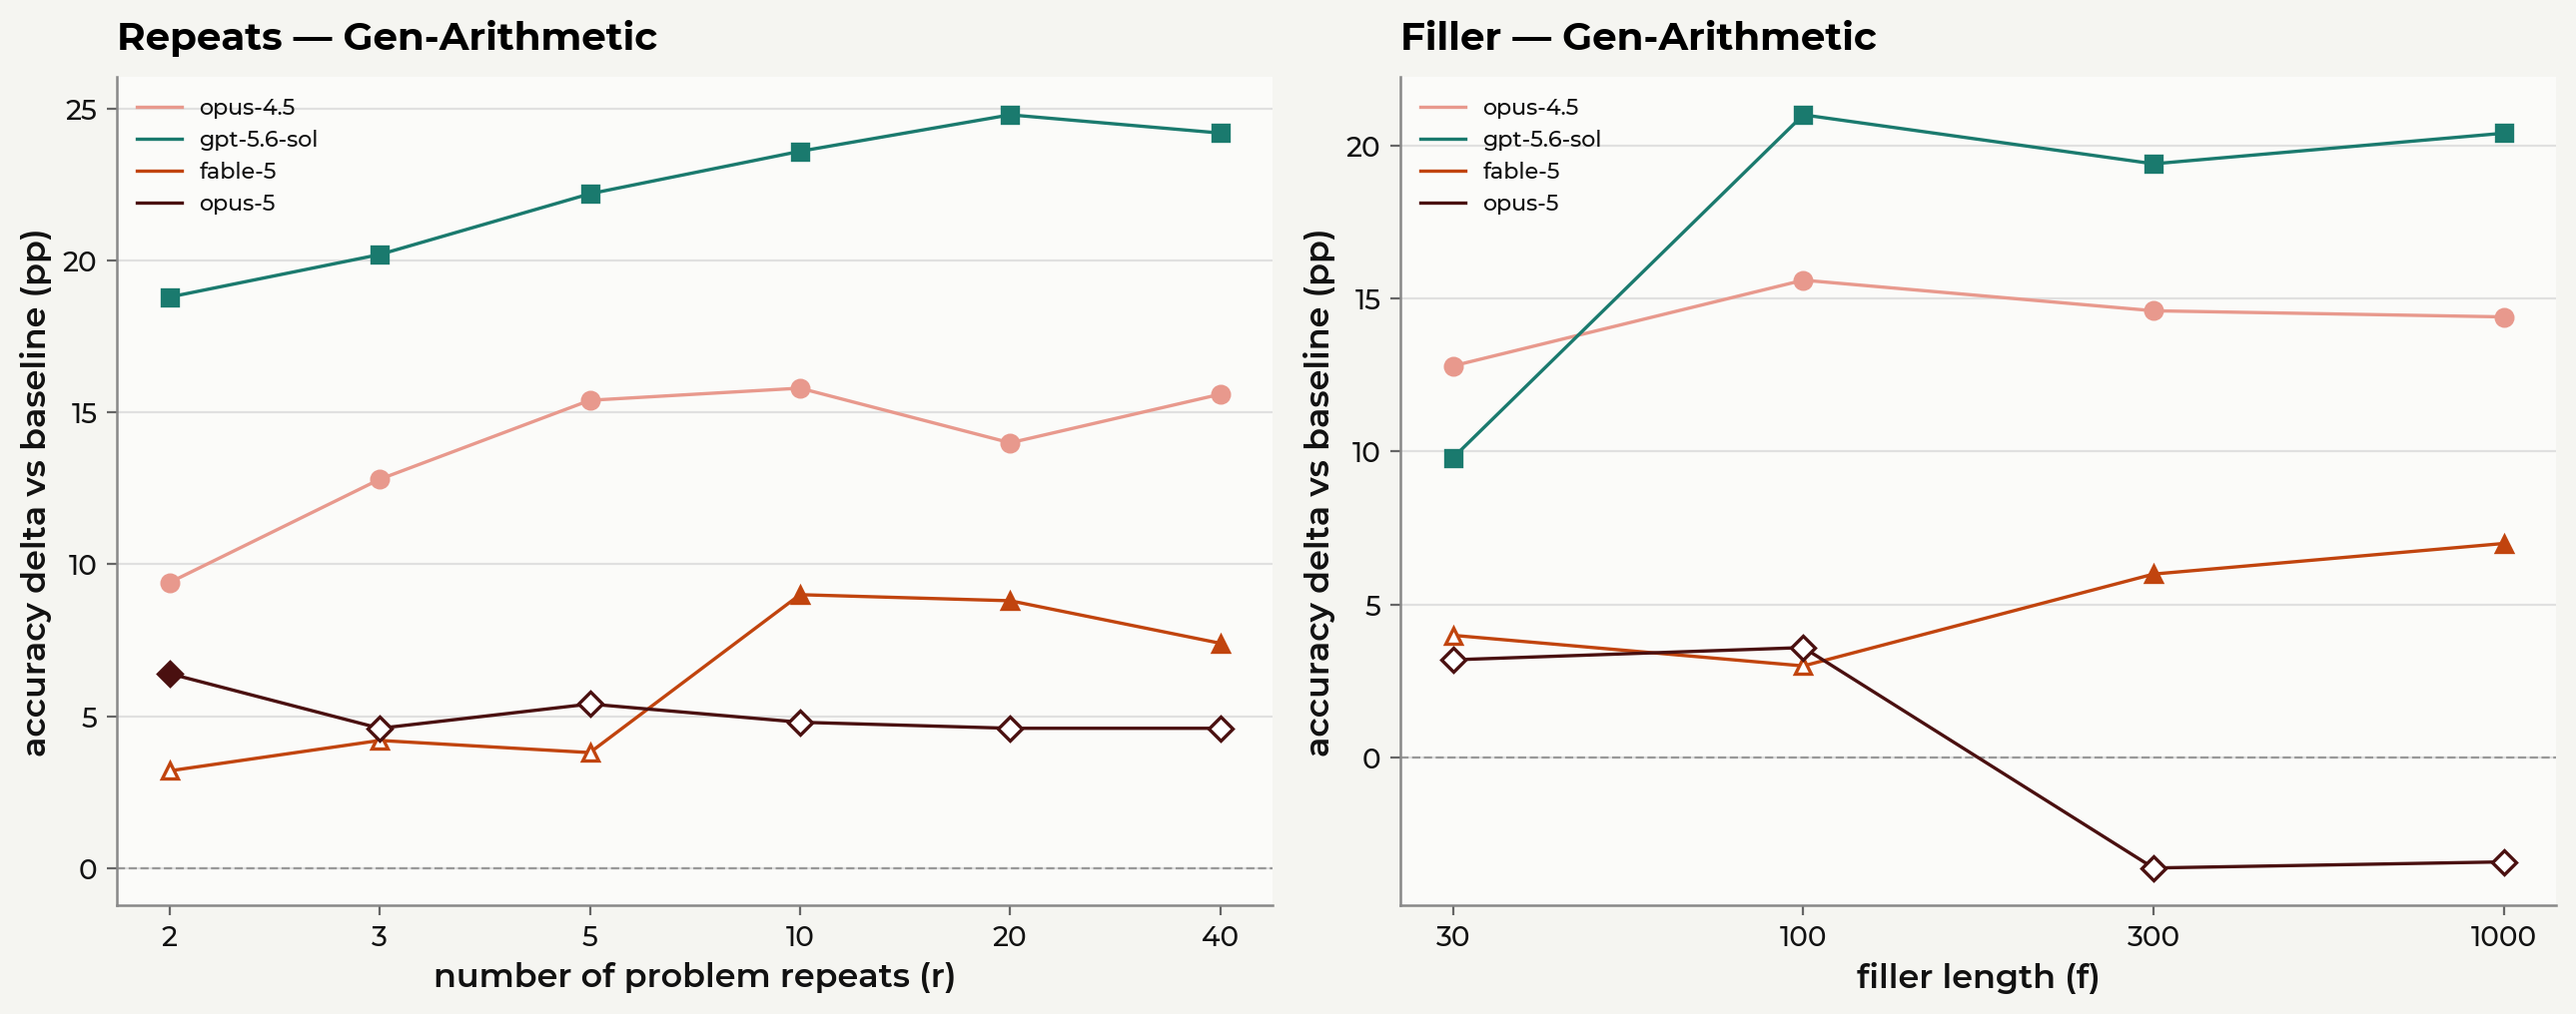
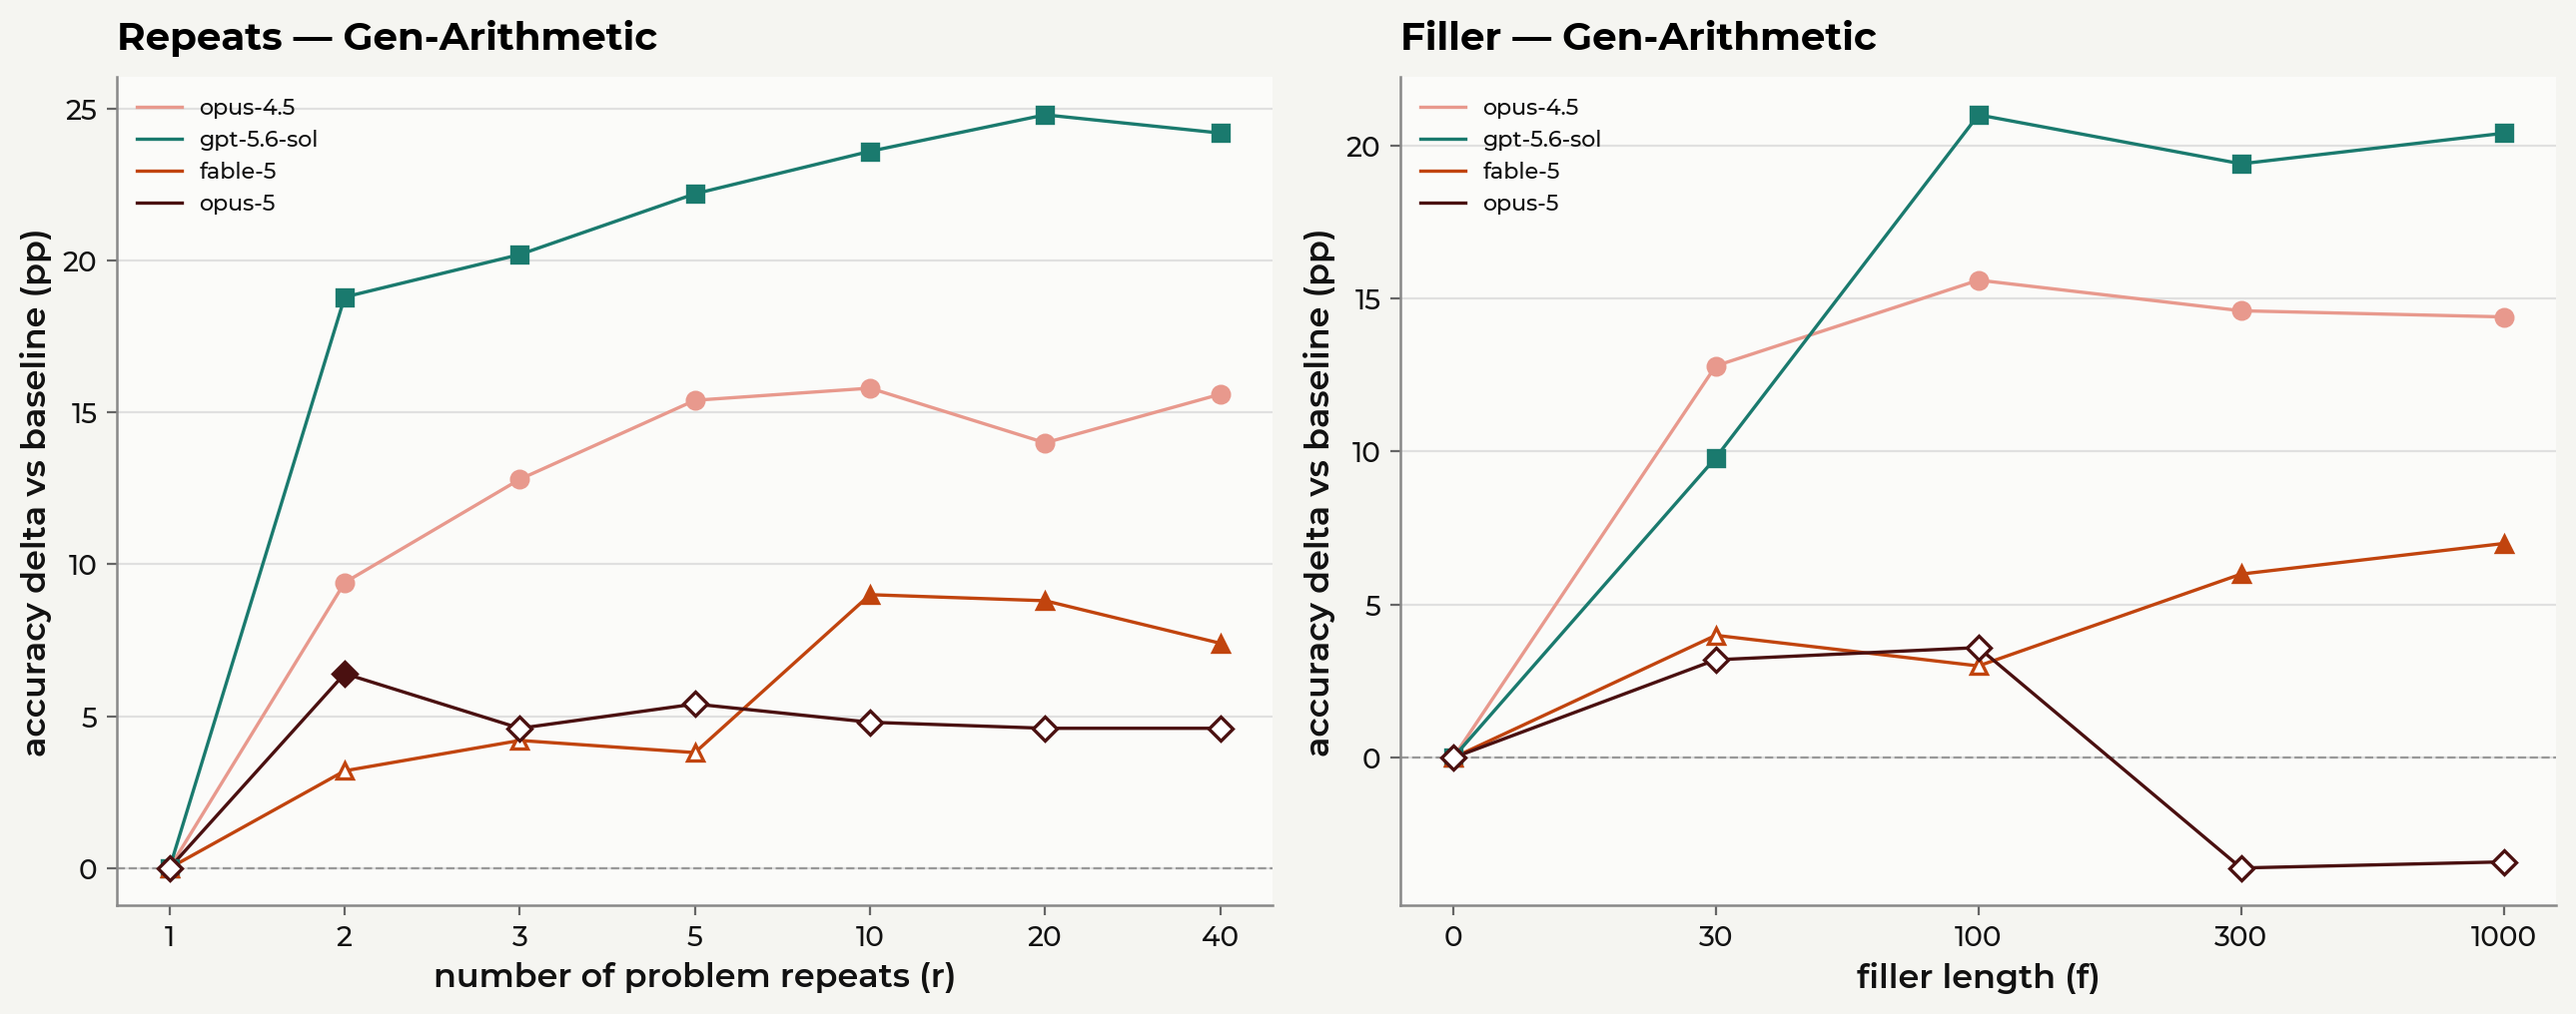
Anchor delta-lines at (baseline, 0) instead of starting mid-lift
Baseline (repeat=1, filler=0) has no condition row of its own since
delta is trivially 0 there by definition — previously dropped from
the x-axis entirely, so each line appeared to start already partway
up. Now plotted as an explicit (anchor, 0) point every line passes
through, making the jump from "no augmentation" to the first real
condition visible directly rather than implied by the dashed y=0
reference line alone.

diff --git a/presentation/plot_delta_lines.py b/presentation/plot_delta_lines.py
@@ -40,10 +40,12 @@ def plot_one_dataset(dataset: str, axes_spec: dict, rows: List[Dict[str, Any]], 
     fig, axes = plt.subplots(1, 2, figsize=(13, 5.2))
     colors = config.model_colors(models)
     for ax, (axis_key, title, xlabel) in zip(axes, PANELS):
-        # Baseline itself (repeat=1, filler=0) has no condition row of its own (delta is trivially
-        # 0 there by definition) — drop it from the x-axis rather than plotting a fake zero point.
+        # Baseline itself (repeat=1, filler=0) has no condition row of its own — delta is
+        # trivially 0 there by definition, not a computed statistic — but plotting it anyway as
+        # the line's starting point makes the jump from "no augmentation" to the first real
+        # condition visible, rather than the line appearing to start already mid-lift.
         anchor = 1 if axis_key == "repeat" else 0
-        values = [v for v in axes_spec.get(axis_key, []) if v != anchor]
+        values = axes_spec.get(axis_key, [])
         if not values:
             ax.axis("off")
             continue
@@ -57,6 +59,10 @@ def plot_one_dataset(dataset: str, axes_spec: dict, rows: List[Dict[str, Any]], 
                        and r["condition"].startswith(prefix)}
             ys, sig = [], []
             for v in values:
+                if v == anchor:
+                    ys.append(0.0)
+                    sig.append(False)  # the anchor is a reference point, not a tested condition
+                    continue
                 r = by_value.get(v)
                 ys.append(r["delta"] * 100 if r else float("nan"))
                 sig.append(bool(r["sig_holm"]) if r else False)
